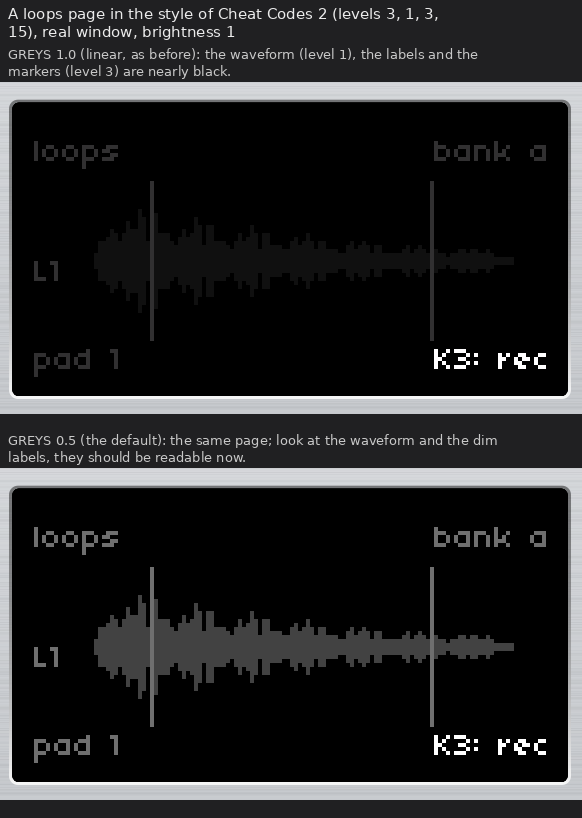
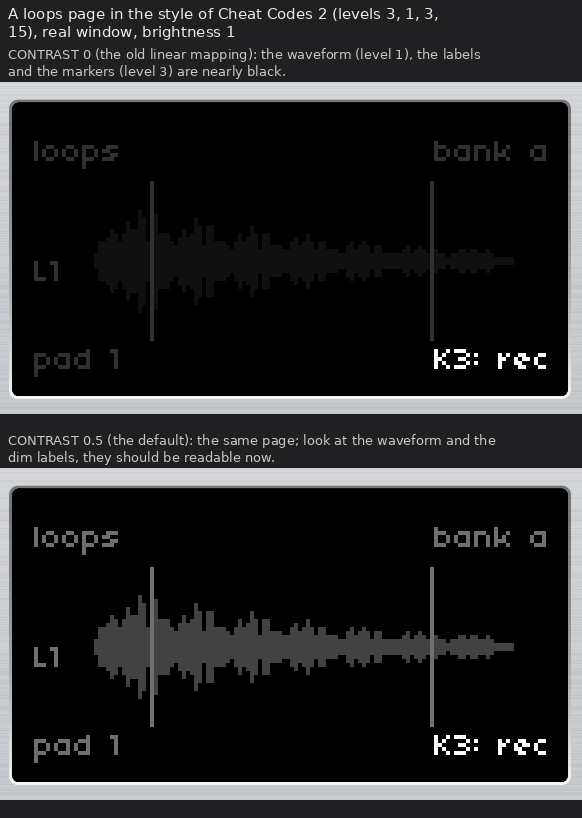
UI: GREYS becomes CONTRAST (0 to 1, higher = lighter dim greys; 0.5 default), old greys key converted
Tests first.

Claude-Session: https://claude.ai/code/session_01KajCNSbKevWeeeSeLGEXAi

Changed region(s): [[0.0, 0.5196, 0.866, 0.5807], [0.0, 0.0611, 0.8351, 0.0917]]

diff --git a/linux/manual/manual.html b/linux/manual/manual.html
@@ -132,16 +132,16 @@ linux/norns.sh --terminal   # matron's Lua prompt and log in this terminal</code
 <h3>The buttons above the device</h3>
 <p>These are not on the hardware. MIX, TAPE, HOME and PARAMS open the menu pages (clicking the page that is up goes back to the script). MIC goes through the audio inputs (see <a href="#audio">section 5</a>). GRID, ARC and KEYS open the virtual windows. MAIDEN opens the maiden page in your browser; if nothing answers on maiden's port the window shows a note ("maiden is not running, see log") instead, and if the page opens but there is no norns console (the <code>--terminal</code> case) the note says so. MANUAL opens this page; if the file is missing the window says "manual not found: linux/manual/manual.html". MUTE (right end of the row) switches the sound output off and on again; it keeps the level you had and gives it back, and its light shows that the output is muted.</p>
 
-<h3>SYSTEM &gt; UI: brightness, colour, greys</h3>
+<h3>SYSTEM &gt; UI: brightness, colour, contrast</h3>
 <p>HOME &gt; SYSTEM &gt; UI (below AUDIO) sets how the screen looks in the window. <kbd>E2</kbd> chooses the row, <kbd>E3</kbd> (or the mouse wheel over it) changes the value, <kbd>K2</kbd> goes back. A change shows at once and is kept for the next start.</p>
 <table>
 <tr><th>row</th><th>values</th><th>does</th></tr>
 <tr><td>BRIGHTNESS</td><td>0.1 to 1 in steps of 0.1, default 1</td><td>dims the whole screen; the low steps are lifted a little so that 0.1 is dim but still readable</td></tr>
 <tr><td>COLOUR</td><td>WHITE, YELLOW, PINK, CUSTOM</td><td>the colour of the lit pixels (black stays black); CUSTOM shows once a colour has been entered</td></tr>
-<tr><td>GREYS</td><td>0.4 to 1.0 in steps of 0.1, default 0.5</td><td>a correction of the 16 grey levels: the dim levels many scripts use for waveforms and labels are nearly black on a computer screen, GREYS lifts the greys in between (lower number = brighter; 1.0 is the plain, linear mapping). It changes how every script looks and how screenshots and GIFs look: they match the window, not exactly a norns</td></tr>
+<tr><td>CONTRAST</td><td>0 to 1 in steps of 0.1, default 0.5</td><td>lifts the dim grey levels: the levels many scripts use for waveforms and labels are nearly black on a computer screen, CONTRAST makes them lighter (higher number = lighter dim greys; 0 is the plain, linear mapping of the first versions, 1 the strongest lift). It changes how every script looks and how screenshots and GIFs look: they match the window, not exactly a norns</td></tr>
 <tr><td>HEX</td><td>3 or 6 hex digits</td><td><kbd>K3</kbd> opens the same text entry that names a preset: type the code on the computer keyboard (<code>ff8800</code>, <code>#f80</code>), <kbd>Enter</kbd> accepts, <kbd>Esc</kbd> cancels. A bad code is refused with a message and the colour stays. A very dark colour is raised to full value so that it cannot hide the screen</td></tr>
 </table>
-<p>The settings are in <code>ui.conf</code> in the norns home (<code>brightness=</code>, <code>colour=</code>, <code>custom=</code>, <code>greys=</code>); it can be edited by hand. A missing file means white, brightness 1, greys 0.5; a bad value falls back to its own default with a line in <code>norns.log</code>; unknown keys are ignored. The recording of a script's own PNG (<code>screen.export_png</code>) is not changed by these settings.</p>
+<p>The settings are in <code>ui.conf</code> in the norns home (<code>brightness=</code>, <code>colour=</code>, <code>custom=</code>, <code>contrast=</code>); it can be edited by hand (an old file with <code>greys=</code> is still read and converted). A missing file means white, brightness 1, contrast 0.5; a bad value falls back to its own default with a line in <code>norns.log</code>; unknown keys are ignored. The recording of a script's own PNG (<code>screen.export_png</code>) is not changed by these settings.</p>
 
 <h3>The right-click menu</h3>
 <table>

diff --git a/docs/port/ui-previews/make_ui_settings_previews.py b/docs/port/ui-previews/make_ui_settings_previews.py
@@ -27,14 +27,14 @@ def sheet(panels, path, title):
 
 cap, out = sys.argv[1], sys.argv[2]
 load = lambda n: Image.open(os.path.join(cap, n + ".png")).convert("RGB")
-sheet([(load("loops-1.0"), "GREYS 1.0 (linear, as before): the waveform (level 1), the labels and the markers (level 3) are nearly black."),
-       (load("loops-0.5"), "GREYS 0.5 (the default): the same page; look at the waveform and the dim labels, they should be readable now.")],
+sheet([(load("loops-0"), "CONTRAST 0 (the old linear mapping): the waveform (level 1), the labels and the markers (level 3) are nearly black."),
+       (load("loops-0.5"), "CONTRAST 0.5 (the default): the same page; look at the waveform and the dim labels, they should be readable now.")],
       os.path.join(out, "ui-greys.png"), "A loops page in the style of Cheat Codes 2 (levels 3, 1, 3, 15), real window, brightness 1")
-sheet([(load("params-white"), "WHITE, brightness 1, greys 0.5: the reference."),
+sheet([(load("params-white"), "WHITE, brightness 1, contrast 0.5: the reference."),
        (load("params-yellow"), "YELLOW (FFD000): does it look like a yellow OLED, and is the dim text readable?"),
        (load("params-pink"), "PINK (FF80B8): is this the pink you want?")],
-      os.path.join(out, "ui-colours.png"), "SYSTEM > UI colours, PARAMS page, real window, brightness 1, greys 0.5")
+      os.path.join(out, "ui-colours.png"), "SYSTEM > UI colours, PARAMS page, real window, brightness 1, contrast 0.5")
 sheet([(load("params-b1.0"), "brightness 1 (the default)."),
        (load("params-b0.7"), "brightness 0.7: the dim text should still read easily."),
        (load("params-b0.4"), "brightness 0.4: the darkest you would run it? (0.1 is dim, a quarter of full brightness in the code values, not black)")],
-      os.path.join(out, "ui-brightness.png"), "SYSTEM > UI brightness, PARAMS page, real window, white, greys 0.5")
+      os.path.join(out, "ui-brightness.png"), "SYSTEM > UI brightness, PARAMS page, real window, white, contrast 0.5")

diff --git a/docs/port/ui-settings-plan.md b/docs/port/ui-settings-plan.md
@@ -3,6 +3,35 @@
 Linux desktop build only. Written from the code of this repository. **Status: BUILT (UI step 3), with the owner's decisions below; the pictures are captures of the real window with the real code** (`ui-previews/ui-greys.png`, `ui-colours.png`, `ui-brightness.png`, made by `ui-previews/make_ui_pictures.sh`; the mapping's reference implementation is `ui-previews/ui_tint.py`; the C code is `matron/src/platform/macos/ui_look.c`).
 **This plan replaces the "SCREEN" page of `ui-plan.md` section 2** (brightness and greys `device / bright / brighter`): the page is now called UI, with three settings, **BRIGHTNESS, COLOUR and GREYS** (and the HEX row of the colour). **Addition (evidence from the owner's laptop): the grey correction is back and on by default** (setting GREYS; **default 0.5 by the owner's decision**, 0.7 was the first proposal): on the desktop the dim levels of some scripts (the waveform and labels of Cheat Codes 2) are almost invisible, while the same page is readable on the owner's norns. The earlier "the grey table stays as it is" is withdrawn; what stays is that the raw 16 levels (grey 17 n) come from the screen backend unchanged and the correction is a display mapping in the bridge, like the tint. The rest of section 2 of `ui-plan.md` (the chip's brightness/contrast/gamma do nothing on the desktop; where the mapping lives) still holds.
 
+## Change (after the first build): GREYS became CONTRAST, "higher = more"
+
+The row felt backwards (a *lower* gamma exponent gave brighter greys; on BRIGHTNESS and every other value a higher number means more). It is now **CONTRAST**, a plain value **0 to 1 in steps of 0.1 (eleven values), default 0.5**, changed with the encoder like the others: **0 is exactly the old linear mapping (gamma 1.0), 1 is the strongest lift (gamma 0.4), 0.5 is the previous default (gamma 0.5)**. The 16-level mapping for a given gamma is unchanged (section 2); only the displayed number and its translation to gamma are new. Everything below that says GREYS means this setting (the sections are kept as they were written, with their gamma numbers).
+
+**The one place that maps the displayed value to the gamma exponent** (`gamma_of` in `lua/core/ui_settings.lua`), piecewise linear so that every step is explainable and the upper half does not go flat:
+- contrast 0 to 0.5: **gamma = 1 - contrast** (one tenth of gamma per step: 1.0, 0.9, ... 0.5);
+- contrast 0.5 to 1: **gamma = 0.5 - 0.2 x (contrast - 0.5)** (two hundredths per step: 0.48, ... 0.40).
+(A smooth single formula through the three required points, 0 -> 1.0, 0.5 -> 0.5, 1 -> 0.4, saturates above 0.7: the levels at 0.8, 0.9 and 1 differ by 1 to 2 grey values; this one gives 4 per step.)
+
+| CONTRAST (displayed) | gamma | level 3 (grey 51) | level 1 (grey 17) | the old `greys` key that converts to it |
+|---|---|---|---|---|
+| 0.0 | 1.00 | 51 | 17 | `greys=1.0` |
+| 0.1 | 0.90 | 60 | 22 | `greys=0.9` |
+| 0.2 | 0.80 | 70 | 29 | `greys=0.8` |
+| 0.3 | 0.70 | 83 | 38 | `greys=0.7` |
+| 0.4 | 0.60 | 97 | 50 | `greys=0.6` |
+| 0.5 | 0.50 | 114 | 66 | `greys=0.5` |
+| 0.6 | 0.48 | 118 | 70 | - |
+| 0.7 | 0.46 | 122 | 73 | - |
+| 0.8 | 0.44 | 126 | 77 | - |
+| 0.9 | 0.42 | 130 | 82 | - |
+| 1.0 | 0.40 | 134 | 86 | `greys=0.4` |
+
+Level 3 and level 1 are the greys the Cheat Codes 2 overview uses (labels and markers, waveform); the old linear mapping (contrast 0) has 51 and 17. Every step lifts both; the lower half in big steps (0.1 -> 0.5 takes level 3 from 51 to 114), the upper half in small ones (114 -> 134).
+
+**ui.conf:** the key is `contrast` (written as `contrast=0.5`). An **old file with `greys=`** (a gamma) is still read and converted to the nearest contrast value by the last column above (a gamma between the listed ones, entered by hand, rounds to the nearest tenth: `greys=0.45` is contrast 0.8), with a log line (`ui.conf: greys=0.7 (the old gamma key) is contrast=0.3 now`); `contrast` wins if both are there; the next change writes `contrast` and no `greys`. **A bad or out-of-range contrast** (`abc`, `-0.1`, `3`) falls back to the default 0.5 with a log line (it is not clamped); `contrast=0` is valid; a value between two steps (`0.73`) snaps to the nearest tenth.
+
+**Tests (written first):** the eleven steps of `gamma_of` against the table; the old-key conversion for 1.0, 0.9, 0.8, 0.7, 0.6, 0.5, 0.4 and a by-hand 0.45; a damaged old key; contrast winning; the page row label CONTRAST (and no GREYS); saved and loaded (`contrast=0.6` in the file, `ui_look` gets gamma 0.48); a damaged and an out-of-range value; the ten steps up from 0; the keyboard test with the new row (`ui_keys_test.lua`).
+
 ## Decisions of the owner and what was built
 
 1. Yellow `FFD000`, pink `FF80B8`. 2. A very dark custom colour is raised to full value (normalised; `000000` is rejected). 3. **Brightness** 0.1 to 1 in steps of 0.1, default 1, with a gentler curve at the low end: **the factor applied is b^0.6** (0.1 -> 0.251, 0.2 -> 0.381, 0.3 -> 0.486, 0.4 -> 0.577, 0.5 -> 0.660, 0.7 -> 0.807, 1 -> 1); the displayed values stay the plain 0.1 steps. 4. A script's own `screen.export_png` stays raw. 5. `RESET` leaves `ui.conf`. 6. **GREYS** default **0.5**, range 0.4 to 1.0 in steps of 0.1, 1.0 = the old linear mapping. **Where level 3 (grey 51) comes out** (white, brightness 1): **1.0: 51 (20 percent); 0.7: 83 (33 percent); 0.5: 114 (45 percent)**; level 1 (the Cheat Codes 2 overview waveform): 17, 38, 66; level 4: 68, 101, 132.

diff --git a/docs/port/HARDWARE-CHECKLIST.md b/docs/port/HARDWARE-CHECKLIST.md
@@ -199,14 +199,14 @@ Look at the window on your laptop (Cinnamon, your real scale) and tell me what i
 - [ ] With the new build, leave norns running with a script (grid and LFOs) for a few hours; plug and unplug the grid and the mio, plug in a USB stick or headphones: norns stays up. `coredumpctl list | grep norns` shows no new entry.
 - [ ] If it still crashes: send `~/Verdandi/crash-report.txt` (and `coredumpctl info` of the newest norns entry). For the two aborts: `coredumpctl info` of the norns SIGABRT (Monday) and the sclang SIGABRT (Tuesday).
 
-## SYSTEM > UI: brightness, colour, greys (UI step 3: `docs/port/ui-settings-plan.md`, pictures `docs/port/ui-previews/ui-greys.png`, `ui-colours.png`, `ui-brightness.png`)
+## SYSTEM > UI: brightness, colour, contrast (UI step 3: `docs/port/ui-settings-plan.md`, pictures `docs/port/ui-previews/ui-greys.png`, `ui-colours.png`, `ui-brightness.png`)
 Look at it on the laptop's real screen (Cinnamon, your scale) next to the real norns if you can; the tests check the numbers, not the taste.
-- [ ] HOME > SYSTEM: the list is DEVICES, AUDIO, **UI**, MODS, RESET, RESTART. UI shows BRIGHTNESS 1.0, COLOUR WHITE, GREYS 0.5, HEX #------ and a bar of 16 greys.
-- [ ] **Cheat Codes 2, the loops page** (the overview with the waveform and the dim labels): open it with **GREYS 1.0** (the old look: the waveform and labels nearly black), then **0.7**, then **0.5** (the default), then **0.4**. Which one looks like your real norns? Tell me the number; the default may move. (Also the page in the editing frame, where the waveform is level 4.) Everything else you know (menus, other scripts) should look lighter in the mids at 0.5 and still have clean black and a full white.
+- [ ] HOME > SYSTEM: the list is DEVICES, AUDIO, **UI**, MODS, RESET, RESTART. UI shows BRIGHTNESS 1.0, COLOUR WHITE, CONTRAST 0.5, HEX #------ and a bar of 16 greys. (CONTRAST was called GREYS in the first build with the numbers the other way round; an old `ui.conf` with `greys=` is converted: 0.5 stays 0.5, 1.0 becomes 0, 0.7 becomes 0.3.)
+- [ ] **Cheat Codes 2, the loops page** (the overview with the waveform and the dim labels): open it with **CONTRAST 0** (the old look: the waveform and labels nearly black), then **0.3** (old greys 0.7), then **0.5** (the default, old greys 0.5), then **1.0** (the strongest, old greys 0.4). Which one looks like your real norns? Tell me the number; the default may move. Also: does a higher number now feel like more, like BRIGHTNESS above it? (Also the page in the editing frame, where the waveform is level 4.) Everything else you know (menus, other scripts) should look lighter in the mids at 0.5 and still have clean black and a full white.
 - [ ] **A colour change:** COLOUR with E3: YELLOW (does it look like your yellow OLED?), PINK (is it the pink you want?). The black of the screen stays black; the dim text is readable in both. The window's frame, the keys and the menu do not change colour.
 - [ ] **A custom hex colour:** E2 to HEX, K3: the text entry opens with the heading "HEX COLOUR"; type `ff8800` (and also `#f80`) on the computer keyboard (digits and letters are typed, not turned into K1..K3), Enter: the screen turns orange and COLOUR shows CUSTOM. Type `12` and Enter: the page says "bad hex: 3 or 6 digits" and the colour does not change. Esc cancels. A very dark code such as `101010` gives a full-brightness grey-white, not a dark screen.
 - [ ] **A low brightness:** BRIGHTNESS from 1.0 down to 0.1 in steps; at 0.4 and 0.1 the menus are dim but readable, and the page itself is still usable at 0.1.
-- [ ] **Saved:** quit norns and start it again: the same look from the first screens (the very first frame of the boot is plain white/grey before the file is read). `~/Verdandi/ui.conf` has `brightness=`, `colour=`, `custom=`, `greys=`; edit it by hand to `colour=purple` and start: white, with a line `ui.conf: colour='purple' ...` in `norns.log`. RESET (SYSTEM > RESET) leaves ui.conf alone.
+- [ ] **Saved:** quit norns and start it again: the same look from the first screens (the very first frame of the boot is plain white/grey before the file is read). `~/Verdandi/ui.conf` has `brightness=`, `colour=`, `custom=`, `greys=`; edit it by hand to `colour=purple` and start: white, with a line `ui.conf: colour='purple' ...` in `norns.log`. RESET (SYSTEM > RESET) leaves ui.conf alone. **Your existing file** (with `greys=0.5`) must keep its look: start norns once, check that CONTRAST shows 0.5 and `norns.log` has `greys=0.5 (the old gamma key) is contrast=0.5 now`.
 - [ ] **Screenshot and GIF** (right-click menu) with yellow and brightness 0.7: the PNG and the GIF have the colours of the window. A script's own `screen.export_png` is still plain grey.
 - [ ] If it is wrong: which row, which value, and what you saw.
 

diff --git a/STATUS.md b/STATUS.md
@@ -64,6 +64,7 @@ Branch: `linux-port`. Resume rule: read `STATUS.md`, `PLAN.md`, `DECISIONS.md` f
   **My readings, not given to me:** (1) "the dpkg version fix" = the .deb version did not grow between commits of one day (the hash is not ordered); it is now `0.1~git<date>.<commit count>.<hash>` and checked with `dpkg --compare-versions`. If you meant another problem with the version, tell me. (2) the 50 % minimum window size (1.9.3).
   `run_all.sh` after the last change: 67 PASS, 0 unexpected failures (clean-root build opt-in, not run).
   Not verified: the laptop (look and taste), HiDPI / fractional scaling, the Mac build.
+- **UI: GREYS became CONTRAST** (higher = more): 0 to 1 in steps of 0.1, default 0.5; gamma = 1 - c up to 0.5, then 0.5 - 0.2 (c - 0.5): 0 is the old linear mapping, 0.5 gamma 0.5 (the previous default), 1 gamma 0.4 (table in `docs/port/ui-settings-plan.md`: level 3 is 51, 60, 70, 83, 97, 114, 118, 122, 126, 130, 134; level 1 is 17 ... 86). `ui.conf` key `contrast`; an old `greys=` is converted to the nearest contrast (1.0 -> 0, 0.7 -> 0.3, 0.5 -> 0.5, 0.4 -> 1) with a log line and never written again; bad or out-of-range contrast = 0.5 with a log line. Tests first (`ui_settings_test.lua`, `ui_keys_test.lua`). Manual, RUN-ON-LAPTOP, HARDWARE-CHECKLIST and the plan updated; pictures re-made.
 - **UI step 3 BUILT** (`docs/port/ui-settings-plan.md`, decisions of the owner recorded there): SYSTEM > UI below AUDIO on the computer: BRIGHTNESS (0.1 to 1, default 1, factor b^0.6), COLOUR (white, yellow FFD000, pink FF80B8, custom hex via the pset-name text entry, dark colours raised to full value), GREYS (gamma 0.4 to 1.0, **default 0.5**; level 3 comes out at 114 at 0.5, 83 at 0.7, 51 at 1.0; level 1 at 66, 38, 17); `ui.conf` in the norns home (four keys, unknown keys ignored with a log line, damaged values fall back per key); applied at once through `_norns.ui_look`, loaded at start by `core/ui_settings`; screenshot and GIF follow the window (the GIF has a mapped palette); `screen.export_png` raw; RESET leaves `ui.conf`. Mac and device unchanged (`NORNS_LINUX_DESKTOP`, `NORNS_PLATFORM`, `_norns.ui_look ~= nil`). Found on the way: the desktop screen backend draws in RGB565, so the old window's greys were slightly off 17 n and tinted green (level 4 = 66, 69, 66); the mapping reads the green channel and snaps flat levels. Tests first (all failed): `ui_look_test.c` (89600 values equal to the Python reference, black stays black, white stays white, gif palette), `ui_settings_test.lua` (hex parsing, text entry with the real keyboard module, save/load, damaged file, SYSTEM list), the headless window test (window, screenshot and gif equal). Pictures: real-window captures `ui-previews/ui-greys.png`, `ui-colours.png`, `ui-brightness.png`. Needs the owner's eyes on the laptop (HARDWARE-CHECKLIST "SYSTEM > UI"). Not built: the detachable screen window.
 - **Mods FIXED** (`docs/port/KNOWN-ISSUES.md` 17): SYSTEM > MODS said "no mods": the C `glob` behind `norns.system_glob` got the virtual `/home/we/...` pattern and found nothing; `virtual_home.lua` now wraps it (pattern real, matches virtual); on a computer `mods.lua` logs every mod found and every failure and a failing mod no longer stops the others. Tests first: `mods_test.lua` (13 checks failed before) and the headless `window:mods` boot test. sidvagn and the doubledecker voice load without error headless; sound, grid port 2 and the nb mod itself are for the laptop (HARDWARE-CHECKLIST "Mods").
 - **SYSTEM > UI keyboard bug FIXED** (`docs/port/KNOWN-ISSUES.md` 16): a key release (delta 0 from `-` and `=`) was read as one step down, so values jumped back on release and a held key scrolled; the page now uses the encoder's delta like the other pages (0 = nothing). Test first `ui_keys_test.lua` (7 failed before, with the numbers in KNOWN-ISSUES). Not tested on the laptop's keyboard.

diff --git a/docs/port/RUN-ON-LAPTOP.md b/docs/port/RUN-ON-LAPTOP.md
@@ -201,7 +201,7 @@ terminal output and `~/verdandi-home/jackd.log` and `sclang.log` if present.
       MAIDEN MANUAL MUTE across the top, the screen at its lower left, K1 E1 above it, E2 E3 K2 K3 to its right; no OUT slider and no K/E text); the black frame around the screen has the Mac's proportions; it resizes without breaking (the screen scales with the window: crisp at 75/100/125/150 percent, very slightly soft in between; smallest size is half); closing it ends norns.
 - [ ] With the script above loaded, or from HOME > SELECT, the screen shows the script's picture.
 - [ ] It looks right on your screen scale (HiDPI) and in X11 *and* Wayland if you can try both.
-- [ ] **SYSTEM > UI** (HOME > SYSTEM > UI): BRIGHTNESS, COLOUR (white, yellow, pink, custom hex typed on the keyboard), GREYS. The detailed list is in `HARDWARE-CHECKLIST.md`, "SYSTEM > UI". In short: the Cheat Codes 2 loops page at GREYS 1.0, 0.7 and 0.5 (which is closest to your norns?), one colour change, one custom hex colour, a low brightness.
+- [ ] **SYSTEM > UI** (HOME > SYSTEM > UI): BRIGHTNESS, COLOUR (white, yellow, pink, custom hex typed on the keyboard), CONTRAST (0 = the old linear look, higher = lighter dim greys). The detailed list is in `HARDWARE-CHECKLIST.md`, "SYSTEM > UI". In short: the Cheat Codes 2 loops page at CONTRAST 0, 0.3 and 0.5 (which is closest to your norns?), one colour change, one custom hex colour, a low brightness.
 
 **Keys and knobs**
 - [ ] Click K1-K3 (they light and norns reacts); drag a knob; scroll over E1-E3.
